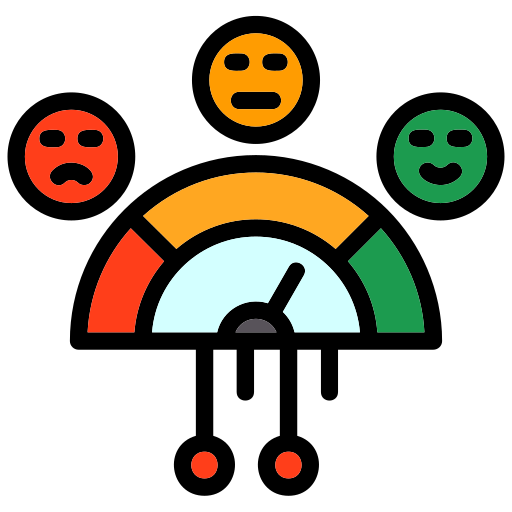
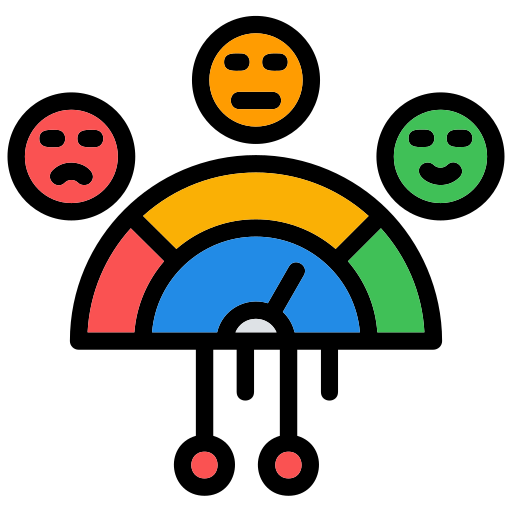
Branding Change

diff --git a/src/components/Layout.tsx b/src/components/Layout.tsx
@@ -11,7 +11,7 @@ import {
 import { useDisclosure } from "@mantine/hooks";
 import { Link } from "react-router-dom";
 import AuthDetails from "../auth/AuthDetails";
-import logo from "../assets/Trenditor.png";
+import logo from "../assets/SentimToot.png";
 
 interface LayoutProps {
   children: ReactNode;
@@ -32,7 +32,12 @@ export function Layout({ children }: LayoutProps) {
       padding="md"
     >
       <AppShell.Header>
-        <Group h="100%" px="md" justify="space-between" style={{ width: "100%" }}>
+        <Group
+          h="100%"
+          px="md"
+          justify="space-between"
+          style={{ width: "100%" }}
+        >
           <Group>
             <Burger
               opened={mobileOpened}
@@ -48,7 +53,11 @@ export function Layout({ children }: LayoutProps) {
             />
           </Group>
           <Anchor component={Link} to="/" underline="never">
-            <Image src={logo} style={{ width: "150px" }} alt="Trenditor Logo" />
+            <Image
+              src={logo}
+              style={{ width: "150px" }}
+              alt="SentimToot Logo"
+            />
           </Anchor>
           <AuthDetails />
         </Group>
@@ -89,13 +98,11 @@ export function Layout({ children }: LayoutProps) {
         </Stack>
       </AppShell.Navbar>
 
-      <AppShell.Main>
-        {children}
-      </AppShell.Main>
+      <AppShell.Main>{children}</AppShell.Main>
 
       <AppShell.Footer p="md">
         <Text size="sm" c="dimmed" ta="center">
-          © 2025 Trenditor. All rights reserved.
+          © 2025 SentimToot. All rights reserved.
         </Text>
       </AppShell.Footer>
     </AppShell>

diff --git a/src/pages/AboutUs.tsx b/src/pages/AboutUs.tsx
@@ -11,7 +11,7 @@ import {
   useMantineTheme,
 } from "@mantine/core";
 
-import logo from "../assets/Trenditor.png";
+import logo from "../assets/SentimToot.png";
 import HamidImage from "../assets/profile/hamid.jpg";
 import KamranImage from "../assets/profile/kamran.png";
 
@@ -35,7 +35,7 @@ function About() {
   return (
     <Container size="md" py="xl" style={{ marginTop: "4rem" }}>
       <Center>
-        <Image src={logo} style={{ width: "500px" }} alt="Trenditor Logo" />
+        <Image src={logo} style={{ width: "500px" }} alt="SentimToot Logo" />
       </Center>
 
       <Text ta="center" mt="xl" mb="xl" maw={600} mx="auto">

diff --git a/src/pages/HomePage.tsx b/src/pages/HomePage.tsx
@@ -99,7 +99,7 @@ export function HomePage() {
   return (
     <Container my="xl" size="xl">
       <Title order={1} mb="md">
-        Welcome to Trenditor
+        Welcome to SentimToot
       </Title>
       <Text size="lg" mb="xl">
         Analyze Reddit trends with AI-powered sentiment analysis.

diff --git a/index.html b/index.html
@@ -4,7 +4,7 @@
     <meta charset="UTF-8" />
     <link rel="icon" type="image/svg+xml" href="/fav.png" />
     <meta name="viewport" content="width=device-width, initial-scale=1.0" />
-    <title>Trenditor</title>
+    <title>SentimToot</title>
   </head>
   <body>
     <div id="root"></div>
